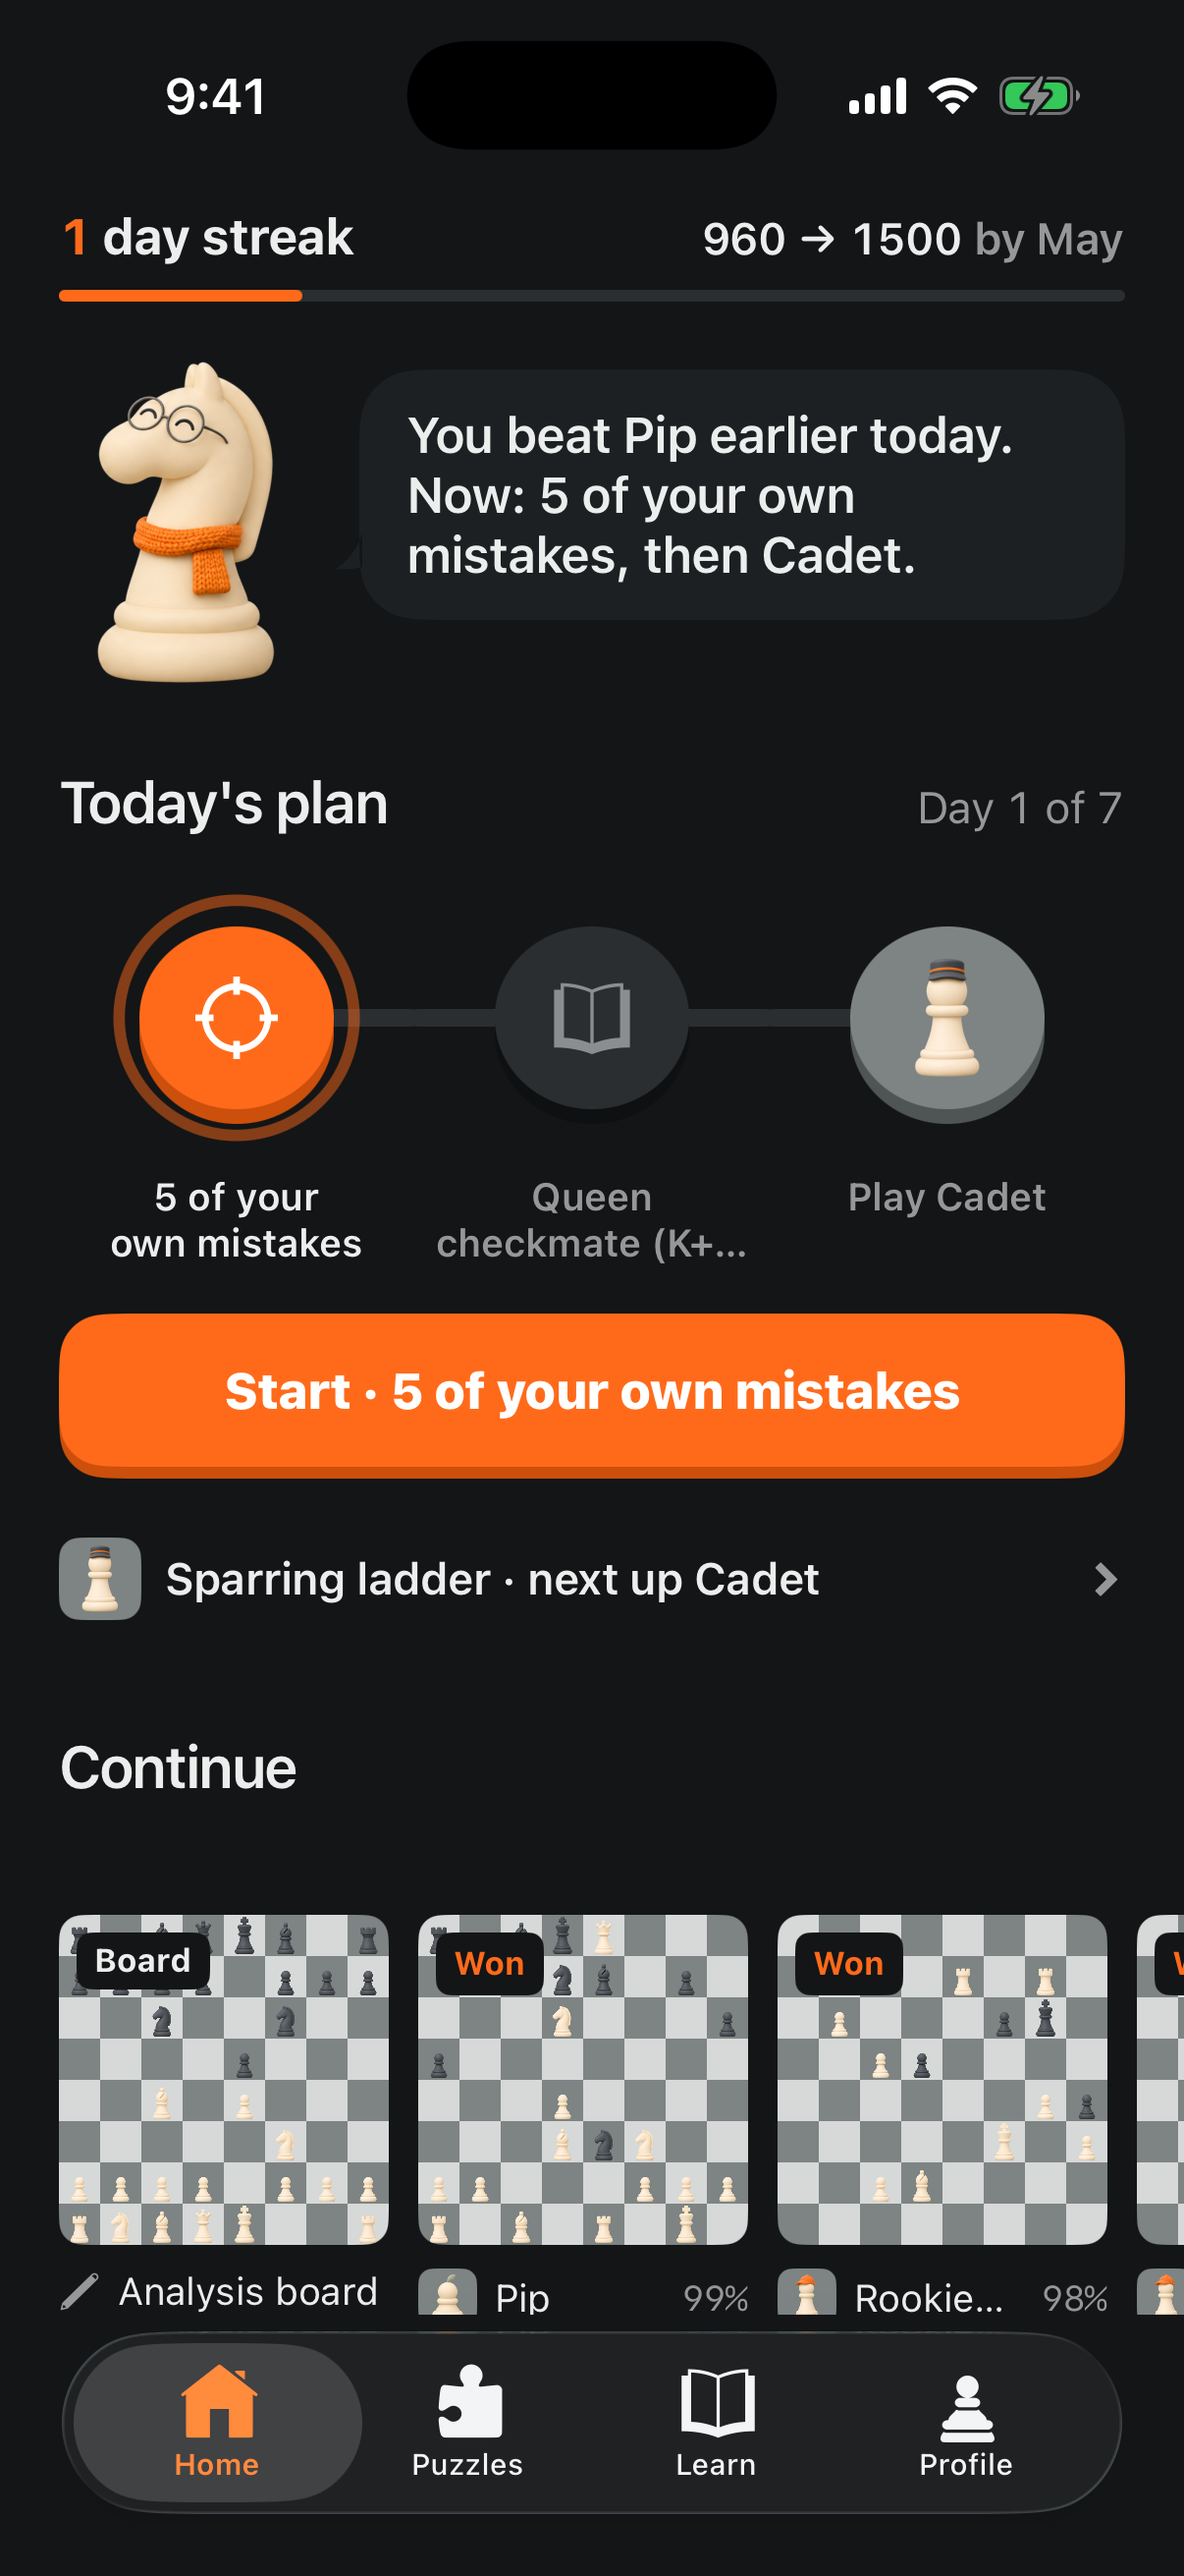
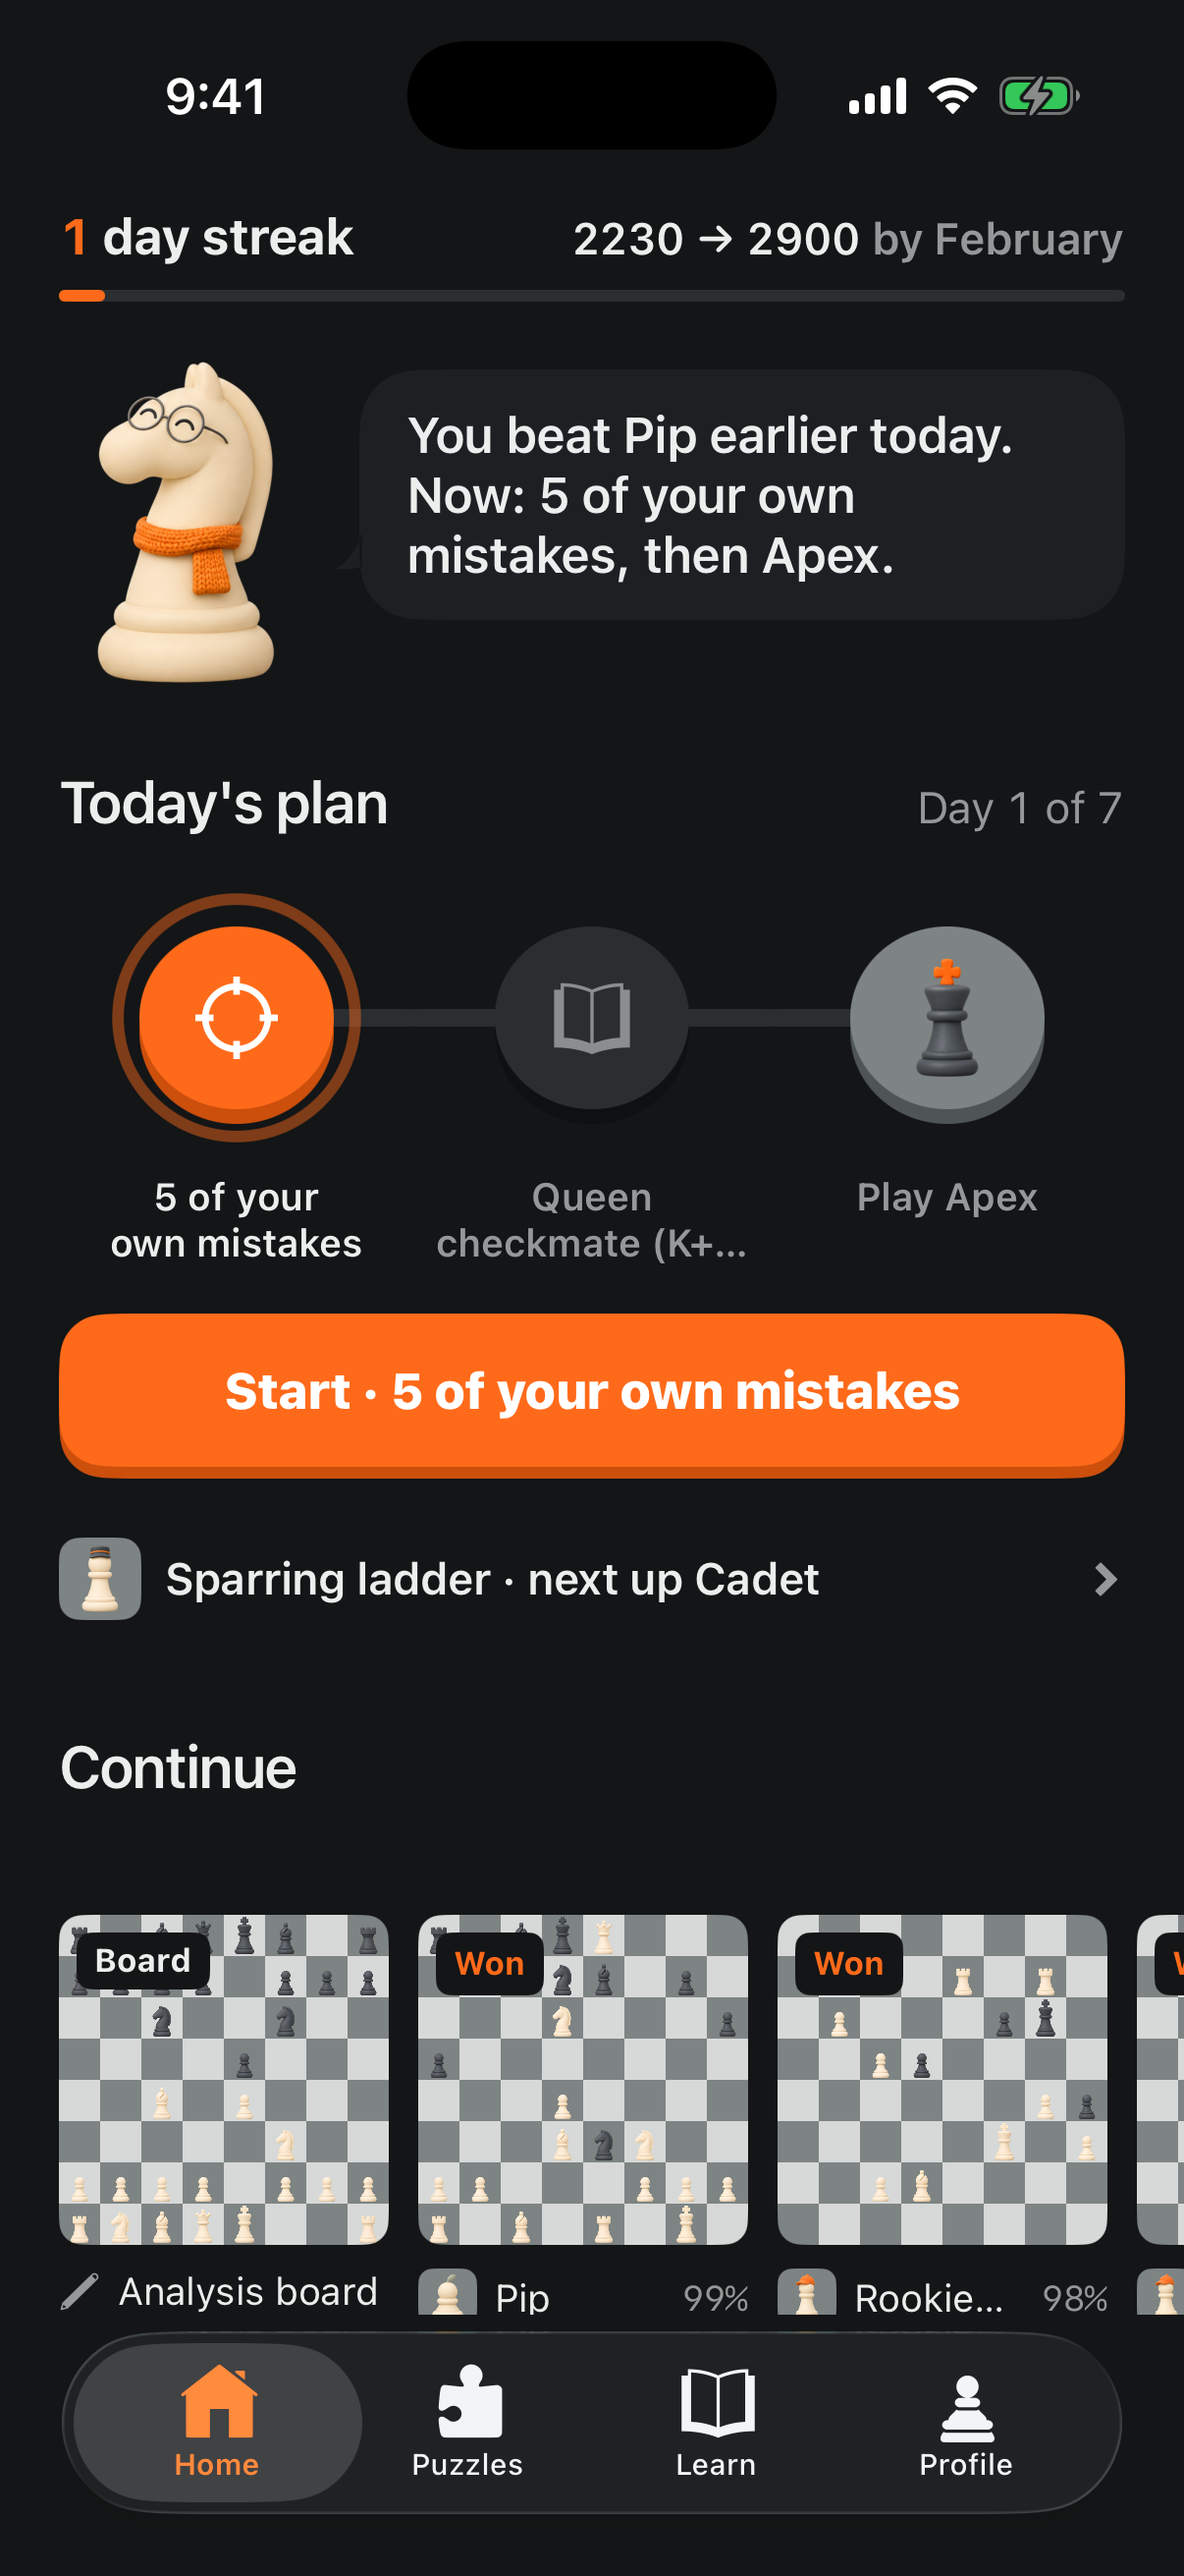
docs: codemap for background analysis and the week path; onboarding plan, reveal and Home screenshots after an onboarding run

diff --git a/CODEMAP.md b/CODEMAP.md
@@ -49,7 +49,9 @@ vendored Stockfish 18 build. Design rules: `docs/design/decisions.md`; grading n
 | Feature | Files |
 |---|---|
 | Header (streak, rating → goal), coach line from real data, sparring link, Continue strip (analysis board + recent games → Review; freeplay excluded: `recentGames`) | `App/Features/Home/HomeView.swift` (thumbs: `GameThumb` in `ProfileView.swift`) |
-| Today's plan as a 3-token path (practice steps, bot as boss), Start, next week | `App/Features/Home/TodayPlanCard.swift`, `ChessCore/Onboarding/TrainingPlan.swift` |
+| Today's plan as a 3-token path (practice steps, bot as boss), Start, next week; `PlanPath` / `StepToken` shared with onboarding's week | `App/Features/Home/TodayPlanCard.swift`, `ChessCore/Onboarding/TrainingPlan.swift` |
+| Background analysis (quick pass, full upgrades, plan rebuild), engine holds (`.holdsEngine()`) | `App/Services/BackgroundAnalysis.swift`, `ChessCore/Analysis/AnalysisQueue.swift`, `StockfishKit/StockfishEngine.swift` (`analyzeInBackground`) |
+| Platform evals / accuracies (chess.com review, Lichess server analysis) | `ChessCore/Import/PlatformEvals.swift`, `GameSnapshot.platformAccuracy` |
 
 ## Analysis board (Freeplay) and position editor
 
@@ -120,7 +122,7 @@ vendored Stockfish 18 build. Design rules: `docs/design/decisions.md`; grading n
 
 | Feature | Files |
 |---|---|
-| Flow (welcome, platform, username, import + analysis, reveal, goal, plan, new player) | `App/Features/Onboarding/*` (`OnboardingFlow`, `OnboardingModel`, steps) |
+| Flow (welcome, chat-style account finder, ~10 s import + background, reveal, goal, week as a token path, new player) | `App/Features/Onboarding/*` (`OnboardingFlow`, `OnboardingModel`, `FindStep`, `ImportStep`, `QuestionStep`, `PlanStep`) |
 | chess.com / Lichess clients, PGN → snapshot (`source: chesscom|lichess`) | `ChessCore/Import/*` |
 | Onboarding analysis, coach lines, goal model, 7-day plan | `ChessCore/Onboarding/*` |
 
